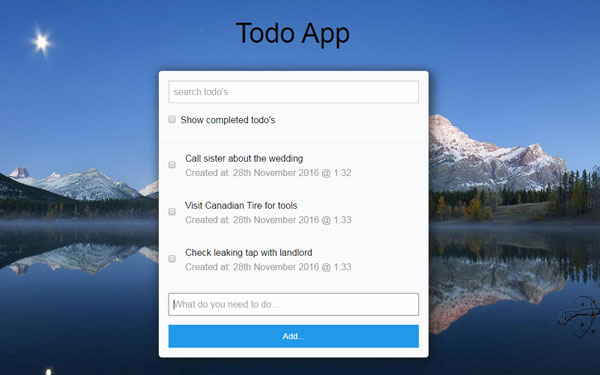
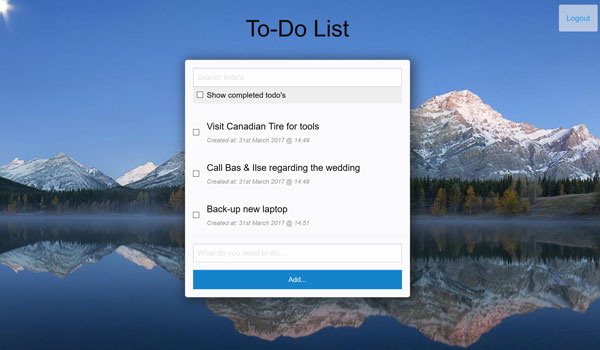
add scorekeep project to portfolio

diff --git a/app/js/project-data.js b/app/js/project-data.js
@@ -12,19 +12,19 @@ Format:
 var p = (function () {				// eslint-disable-line
 	var imgBaseDir = 'images/';
 	var projects = [{
-		'name': 'React Todo App',
-		'description' : 'A personal project used to sharpen my skills in React and Redux. This app lets you add tasks to a list and search existing todo items. Completed tasks are automatically archived and can be made visible again with the Show completed select box. Prior to this version, data was stored locally in the browser. Now, data is stored in Firebase using google authentication.',
+		'name': 'React To-Do List',
+		'description' : 'A personal project used to sharpen my skills in React and Redux. This app lets you add tasks to a list and search existing to-do items. Completed tasks are automatically archived and can be made visible again with the Show completed select box. Prior to this version, data was stored locally in the browser. Now, data is stored in Firebase using google authentication.',
 		'url': ['http://thawing-river-94231.herokuapp.com','https://github.com/rscheffers82/React-ToDo'],
 		'img' : 'react-todo-app.jpg',
 		'tech' : ['React', 'Redux','JSX','Sass','HTML', 'Foundation'],
 		'category' : ['featured', 'frontend']
 	},{
-		'name': 'Brilliant Massage Therapy',
-		'description' : 'This is a client project in which I merged two sites into one in collaboration with Andrew from <a href="http://www.thinkupdesign.ca" target="_blank">ThinkUp Design</a>. After having done market research regarding local massage businesses and competing WordPress templates, we presented the client with the possible designs. The <a href="http://jacqueline.themerex.net" target="_blank">Jacqueline theme</a> was chosen.<br/> I migrated the current blog to a new WordPress site and installed the theme. After having styled most of the content and the revolution slider, Andrew took care of the intricate design fixes. The final result; a professional, SEO optimised, mobile ready and visual appealing site.',
-		'url': ['http://jolitabrilliant.com'],
-		'img' : 'jolita-brilliant.jpg',
-		'tech' : ['Wordpress','Photoshop','CSS','HTML'],
-		'category' : ['featured', 'design']
+		'name': 'Meteor Score Keep',
+		'description' : 'In order to explore Meteor and get familiar with its eco-system, I build this project. The requirement was to create a database that records players and their score. On the front-end, players can be added and removed and their score increased and decreased. Animations are added using the React Flip Move library. Once completed, the app was deployed to Heroku with the help of the meteor horse build pack.',
+		'url': ['https://score-keep11.herokuapp.com','https://github.com/rscheffers82/score-keeper'],
+		'img' : 'score-keep.jpg',
+		'tech' : ['Meteor', 'React', 'JSX', 'Sass','HTML'],
+		'category' : ['featured', 'fullstack']
 	},{
 		'name': 'Five API projects',
 		'description' : 'This is one of my pet projects used to become familiar with Node, Express and MongoDB. I build five API apps that take input through either POST or GET and return JSON data. My favorite project was the Exercise Tracker. Here users can register, track their exercises and view logs. I added a front-end UI using Materialize CSS, although the Add user and Add Exercise POST routes will return JSON data for demonstration purposes.',
@@ -32,6 +32,13 @@ var p = (function () {				// eslint-disable-line
 		'img' : 'API-collection.jpg',
 		'tech' : ['Node','Express','MongoDB', 'JavaScript', 'MaterializeCSS'],
 		'category' : ['featured','backend']
+	},{
+		'name': 'Brilliant Massage Therapy',
+		'description' : 'This is a client project in which I merged two sites into one in collaboration with Andrew from <a href="http://www.thinkupdesign.ca" target="_blank">ThinkUp Design</a>. After having done market research regarding local massage businesses and competing WordPress templates, we presented the client with the possible designs. The <a href="http://jacqueline.themerex.net" target="_blank">Jacqueline theme</a> was chosen.<br/> I migrated the current blog to a new WordPress site and installed the theme. After having styled most of the content and the revolution slider, Andrew took care of the intricate design fixes. The final result; a professional, SEO optimised, mobile ready and visual appealing site.',
+		'url': ['http://jolitabrilliant.com'],
+		'img' : 'jolita-brilliant.jpg',
+		'tech' : ['Wordpress','Photoshop','CSS','HTML'],
+		'category' : ['featured', 'design']
 	},{
 		'name': 'React Countdown App',
 		'description' : 'This is one of my personal projects used to become familiar with re-using React components. In this timer app the countdown and timer parts of the application use the same components but slightly different logic is used in each. Building this app helped me to understand how props are passed down to child components and how application states are managed by a main parent container component. The application is styled using the <a href="foundation.zurb.com" target="_blank">Foundation</a> framework and deployed live on Heroku.',
